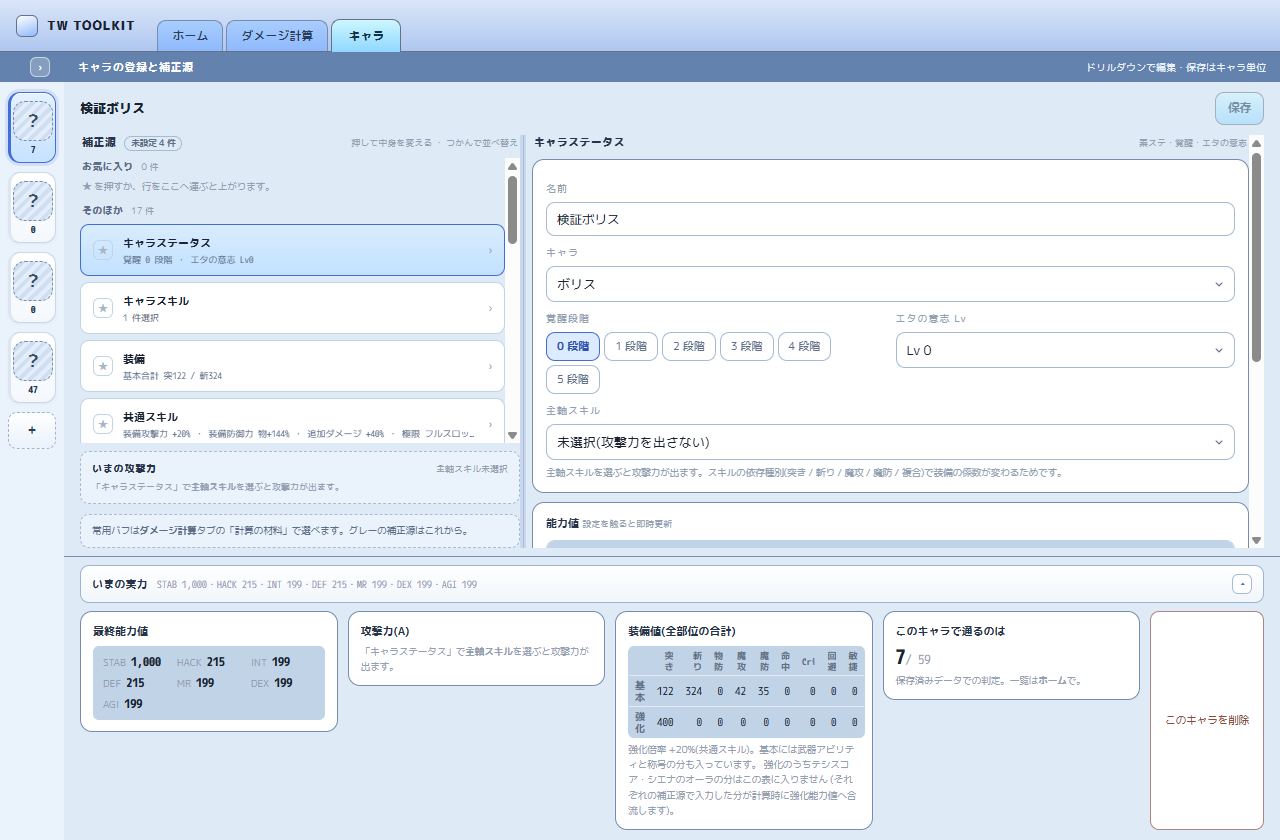
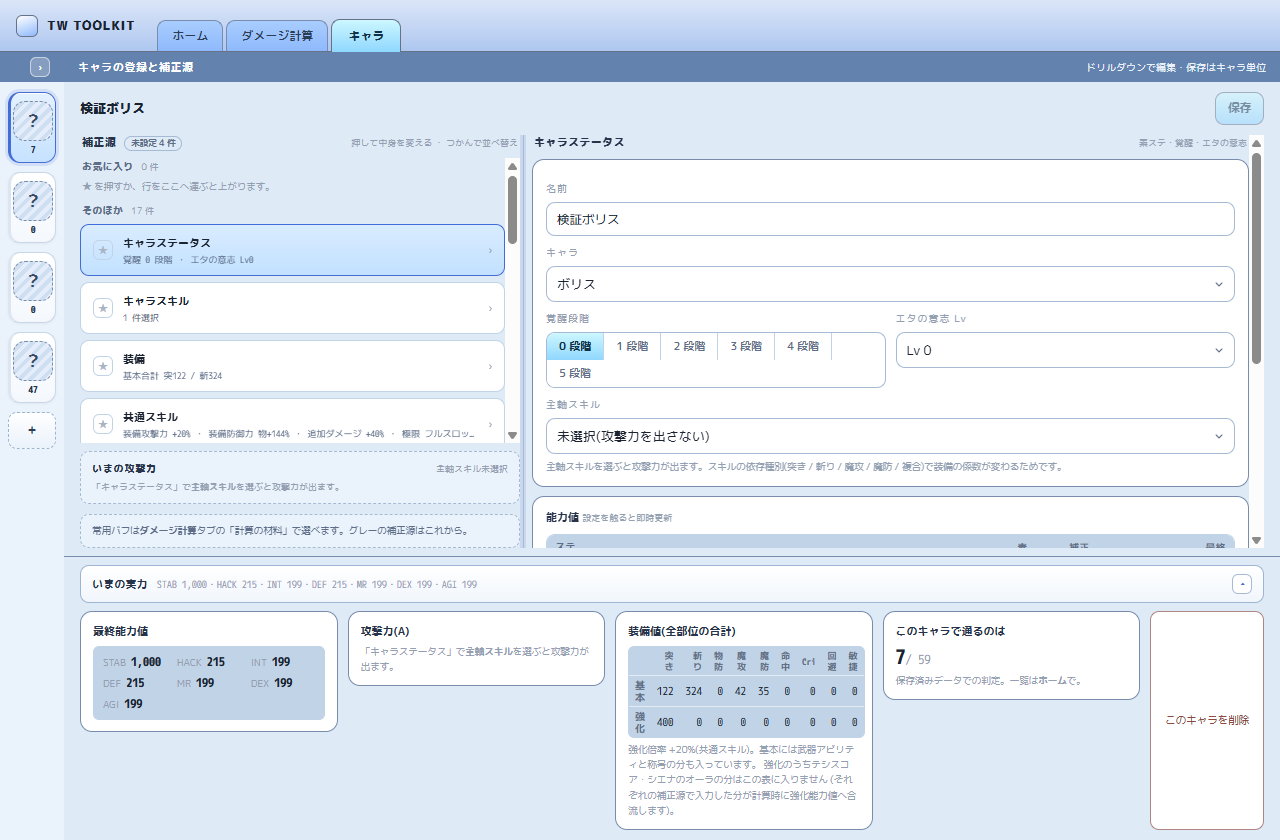
style(ui): 段階選択とチップのトーンを規格に合わせる
自作の見た目になっていたので design-system の .seg / .chip に揃えた。

- 段階選択は**1 つの枠の中にボタンが並ぶ**形(離れた pill ではない)。間は弱い区切り線
  1 本、選択中は水色のグラデ、hover はレールの地。§04 の角丸はパネル段(9px)
- チップは padding 4px 11px / color --fg-sub / font-weight 500 に合わせた

あわせて §14 に保留 E を足した。順序のある有限選択は段階選択にできたが、
順序のない有限選択(属性 / 対象ステ / アビリティ / キャラ)と、段階として並べられない
長さ(エタの意志 Lv 0〜100)は 5 形態に当てるものが無い。

Claude-Session: https://claude.ai/code/session_01JvRWxU3ohwNNHW2hQatCCP

Changed region(s): [[0.4062, 0.3714, 0.9688, 0.65], [0.9375, 0.4952, 0.9688, 0.5262]]

diff --git a/apps/desktop/src/ui/StepSelect.svelte b/apps/desktop/src/ui/StepSelect.svelte
@@ -37,19 +37,26 @@
 </div>
 
 <style>
+  /* 見た目は design-system の .seg に合わせる — 1 つの枠の中にボタンが並び、
+     間は弱い区切り線 1 本。選択中は水色のグラデ(このアプリの「選ばれている」の色) */
   .step-select { display: flex; flex-direction: column; gap: 6px; min-width: 0; }
   .label { font-size: 10px; letter-spacing: 0.1em; color: var(--fg-dim); }
-  /* 横に並べきれないときは折り返す。畳んで隠さない — 段階を見せるのがこの形の役目 */
-  .steps { display: flex; flex-wrap: wrap; gap: 4px; min-width: 0; }
+  .steps {
+    display: inline-flex; flex-wrap: wrap; align-self: flex-start; min-width: 0;
+    border: 1px solid var(--border); border-radius: var(--r-panel); overflow: hidden;
+  }
   .step {
-    padding: 5px 10px; border-radius: var(--r-panel);
-    background: var(--bg-field); border: 1px solid var(--border);
-    color: var(--fg-muted); font-size: 11px; white-space: nowrap;
+    padding: 5px 12px; border: 0; border-right: 1px solid var(--border-soft);
+    background: var(--bg-field); color: var(--fg-muted);
+    font-size: 11px; font-weight: 500; white-space: nowrap;
+    transition: background 0.15s ease;
   }
-  .step:hover:not(:disabled):not(.on) { border-color: var(--accent); color: var(--fg); }
+  .step:last-child { border-right: 0; }
+  .step:hover:not(:disabled):not(.on) { background: var(--bg-rail); }
   .step.on {
-    background: var(--bg-active); border-color: var(--accent);
-    color: var(--accent-hover); font-weight: 700;
+    background: linear-gradient(180deg, #CCF7FF, #90D7FF);
+    color: #123047; font-weight: 700;
   }
+  .step:focus-visible { outline: 2px solid var(--accent); outline-offset: -2px; }
   .step:disabled { cursor: not-allowed; opacity: 0.5; }
 </style>

diff --git a/docs/design-system.html b/docs/design-system.html
@@ -2384,6 +2384,19 @@ td code { background: var(--card-soft2); }
             ホームの「次に変えるなら」も同じ構造。</p>
           <span class="where">効くところ: 計算タブ 足りない分をどう埋める / ホーム 次に変えるなら</span>
         </div>
+        <div class="dec">
+          <div class="dec-h"><span class="n2">E</span><b>ドロップダウンは 5 形態のどこにも無い</b><span class="soonbadge">保留</span></div>
+          <p>順序のある有限選択は<b>段階選択</b>(形態 2)にした。残っているのは 2 種類で、
+            どちらも 5 形態に当てるものが無い:</p>
+          <p><b>1. 順序のない有限選択</b> — 属性 / 対象ステ / アビリティ / キャラ。「段階」ではないので
+            並べても順序の意味が出ない。チップ列にすると 7〜12 個が横に並び、1 つしか選べないのに
+            複数選べるように見える。<br />
+            <b>2. 段階として並べられない長さ</b> — エタの意志 Lv(0〜100)。101 個は段階ではない。
+            形態 4(ステッパー)が近いが、それは保留 A(スライダーの位置づけ)と絡む。</p>
+          <p class="why"><b>決めるのに要るもの</b> v4 にこの 2 種類の入力があるか。無ければ
+            「6 つ目の形態」として足すか、別の見せ方(検索付きのポップオーバー等)を決める。</p>
+          <span class="where">効くところ: キャラタブ 属性 / 装備アビリティ / キャラステータス</span>
+        </div>
       </div>
     </section>
 

diff --git a/apps/desktop/src/pages/chars/SourcePane.svelte b/apps/desktop/src/pages/chars/SourcePane.svelte
@@ -1643,10 +1643,10 @@
   /* オン / オフはチップで出す(§07 形態 3)。素のチェックボックスは 5 形態のどれでもない。
      値はチップの中に書く — 選ぶ = 値が確定する。計算タブのバフチップと同じ形にそろえる */
   .check {
-    display: inline-flex; align-items: center; flex-wrap: wrap; gap: 7px;
-    padding: 5px 11px; border-radius: var(--r-pill);
+    display: inline-flex; align-items: center; flex-wrap: wrap; gap: 6px;
+    padding: 4px 11px; border-radius: var(--r-pill);
     background: var(--bg-field); border: 1px solid var(--border-soft);
-    color: var(--fg-muted); font-size: 11px; cursor: pointer;
+    color: var(--fg-sub); font-size: 11px; font-weight: 500; cursor: pointer;
   }
   .check:hover { border-color: var(--accent); }
   .check:has(input:checked) {
